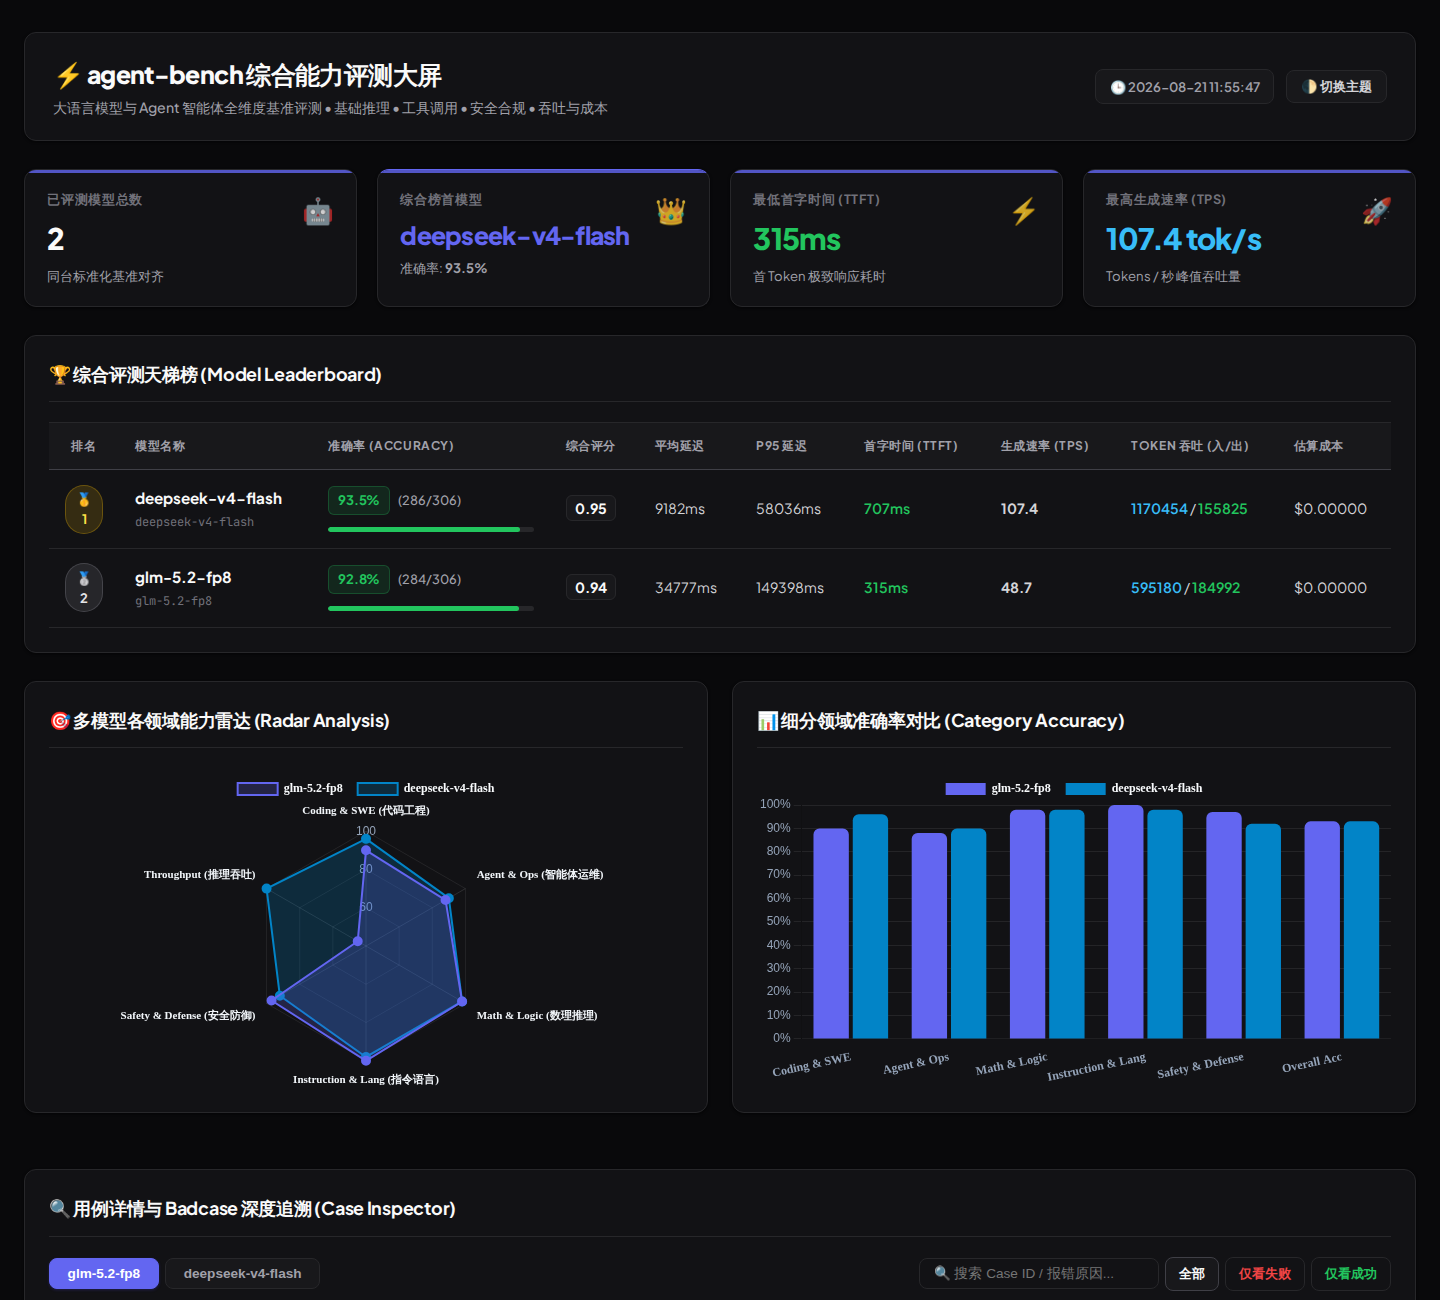
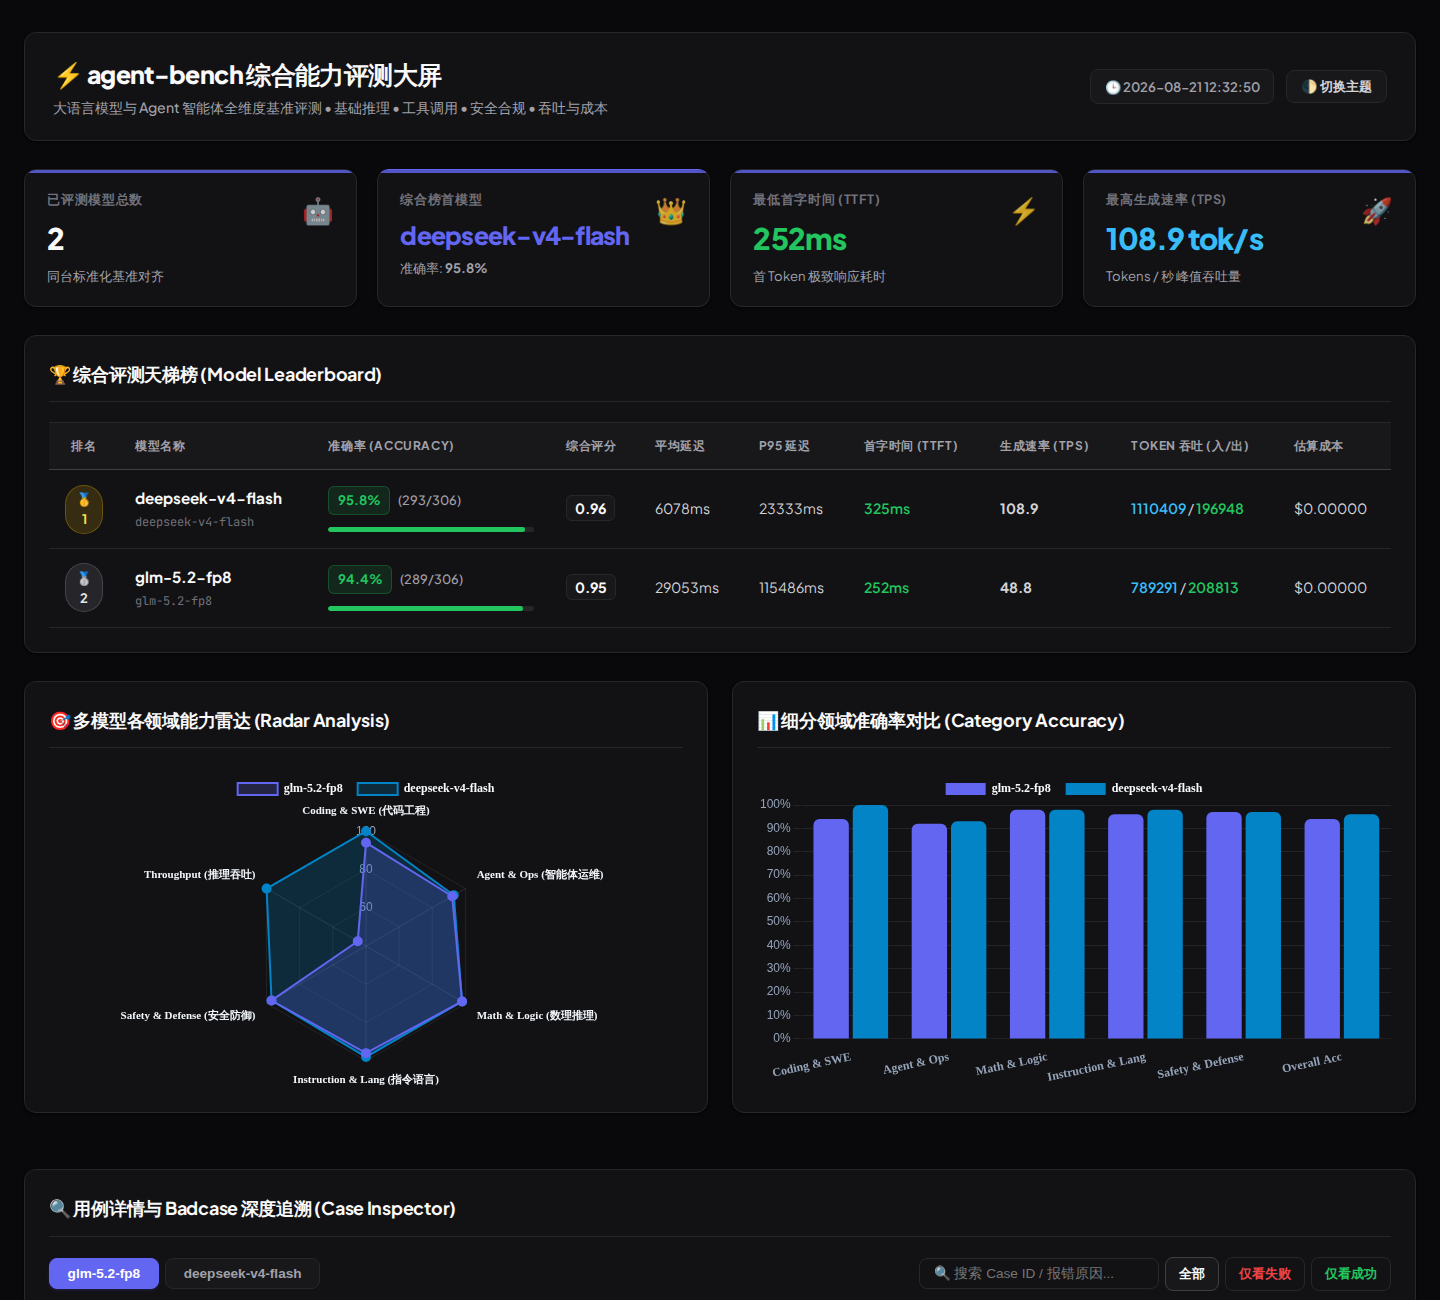
fix(eval): add robust DSML/GLM tool call fallback parser & workspace system prompt to eliminate false verification failures

diff --git a/crates/eval-core/src/model/types.rs b/crates/eval-core/src/model/types.rs
@@ -247,3 +247,166 @@ pub struct ModelResponse {
     pub finish_reason: Option<String>,       // "stop" | "length" | "tool_calls"
     pub raw_response: Option<serde_json::Value>,
 }
+
+/// Fallback parser that extracts structured tool calls if an open-source model (DeepSeek, GLM, Qwen, etc.)
+/// generates markup/text tool calls instead of native JSON tool_calls in OpenAI API response.
+pub fn extract_fallback_tool_calls(text: &str) -> Option<Vec<ToolCall>> {
+    let mut calls = Vec::new();
+    let mut idx = 0;
+
+    // 1. DeepSeek DSML format: <｜DSML｜invoke name="NAME">...<｜DSML｜parameter name="PARAM">VAL</｜DSML｜parameter>...</｜DSML｜invoke>
+    // Handles both full-width ｜ and standard |
+    let dsml_invoke_re = regex::Regex::new(r"(?s)<[｜|]DSML[｜|]invoke\s+name=[\x22']([^'\x22]+)[\x22']\s*>(.*?)</[｜|]DSML[｜|]invoke>").ok();
+    let dsml_param_re = regex::Regex::new(r"(?s)<[｜|]DSML[｜|]parameter\s+name=[\x22']([^'\x22]+)[\x22'][^>]*>(.*?)</[｜|]DSML[｜|]parameter>").ok();
+
+    if let (Some(inv_re), Some(p_re)) = (dsml_invoke_re.as_ref(), dsml_param_re.as_ref()) {
+        for cap in inv_re.captures_iter(text) {
+            let name = cap.get(1).map(|m| m.as_str().trim()).unwrap_or("");
+            let body = cap.get(2).map(|m| m.as_str()).unwrap_or("");
+            if !name.is_empty() {
+                let mut map = serde_json::Map::new();
+                for pcap in p_re.captures_iter(body) {
+                    let pname = pcap.get(1).map(|m| m.as_str().trim()).unwrap_or("");
+                    let pval = pcap.get(2).map(|m| m.as_str().trim()).unwrap_or("");
+                    if !pname.is_empty() {
+                        map.insert(pname.to_string(), serde_json::Value::String(pval.to_string()));
+                    }
+                }
+                calls.push(ToolCall {
+                    id: format!("call_dsml_{idx}"),
+                    tool_type: "function".to_string(),
+                    function: FunctionCall {
+                        name: name.to_string(),
+                        arguments: serde_json::to_string(&map).unwrap_or_else(|_| "{}".to_string()),
+                    },
+                });
+                idx += 1;
+            }
+        }
+    }
+
+    if !calls.is_empty() {
+        return Some(calls);
+    }
+
+    // 2. GLM format & generic <tool_call>...</tool_call>
+    let tool_call_re = regex::Regex::new(r"(?s)<tool_call>(.*?)</tool_call>").ok();
+    if let Some(tc_re) = tool_call_re.as_ref() {
+        for cap in tc_re.captures_iter(text) {
+            let body = cap.get(1).map(|m| m.as_str().trim()).unwrap_or("");
+            if body.is_empty() {
+                continue;
+            }
+
+            // If body is valid JSON: {"name": "...", "arguments": {...}}
+            if body.starts_with('{') {
+                if let Ok(v) = serde_json::from_str::<serde_json::Value>(body) {
+                    let name = v.get("name").or_else(|| v.get("tool")).and_then(|n| n.as_str()).unwrap_or("");
+                    let args = if let Some(a) = v.get("arguments").or_else(|| v.get("parameters")) {
+                        if a.is_string() {
+                            a.as_str().unwrap().to_string()
+                        } else {
+                            serde_json::to_string(a).unwrap_or_else(|_| "{}".to_string())
+                        }
+                    } else {
+                        "{}".to_string()
+                    };
+
+                    if !name.is_empty() {
+                        calls.push(ToolCall {
+                            id: format!("call_glm_json_{idx}"),
+                            tool_type: "function".to_string(),
+                            function: FunctionCall {
+                                name: name.to_string(),
+                                arguments: args,
+                            },
+                        });
+                        idx += 1;
+                        continue;
+                    }
+                }
+            }
+
+            // GLM custom markup: write_file<arg_value>path</arg_key><arg_value>src/config_loader.py\ncontent</arg_key><arg_value>...
+            let parts: Vec<&str> = body.splitn(2, "<arg_value>").collect();
+            let name = parts[0].trim();
+            if !name.is_empty() && parts.len() > 1 {
+                let rest = parts[1];
+                let segments: Vec<&str> = rest.split("</arg_key><arg_value>").collect();
+                let mut map = serde_json::Map::new();
+                if segments.len() > 1 {
+                    let mut cur_key = segments[0].trim();
+                    for (s_idx, seg) in segments.iter().enumerate().skip(1) {
+                        if s_idx == segments.len() - 1 {
+                            // Last segment: strip trailing </arg_value>
+                            let val = if let Some(stripped) = seg.strip_suffix("</arg_value>") {
+                                stripped.trim()
+                            } else {
+                                seg.trim()
+                            };
+                            map.insert(cur_key.to_string(), serde_json::Value::String(val.to_string()));
+                        } else {
+                            // Intermediate segment: value ending with newline and next_key
+                            if let Some((val, next_key)) = seg.rsplit_once('\n') {
+                                map.insert(cur_key.to_string(), serde_json::Value::String(val.trim().to_string()));
+                                cur_key = next_key.trim();
+                            } else {
+                                map.insert(cur_key.to_string(), serde_json::Value::String(seg.trim().to_string()));
+                            }
+                        }
+                    }
+                }
+
+                calls.push(ToolCall {
+                    id: format!("call_glm_markup_{idx}"),
+                    tool_type: "function".to_string(),
+                    function: FunctionCall {
+                        name: name.to_string(),
+                        arguments: serde_json::to_string(&map).unwrap_or_else(|_| "{}".to_string()),
+                    },
+                });
+                idx += 1;
+            }
+        }
+    }
+
+    if !calls.is_empty() {
+        return Some(calls);
+    }
+
+    None
+}
+
+#[cfg(test)]
+mod tests {
+    use super::*;
+
+    #[test]
+    fn test_extract_dsml_tool_calls() {
+        let text = r#"Let me check the config:
+<｜DSML｜tool_calls>
+<｜DSML｜invoke name="read_file">
+<｜DSML｜parameter name="path" string="true">app/config.yaml</｜DSML｜parameter>
+</｜DSML｜invoke>
+</｜DSML｜tool_calls>"#;
+
+        let calls = extract_fallback_tool_calls(text).expect("Should extract DSML tool calls");
+        assert_eq!(calls.len(), 1);
+        assert_eq!(calls[0].function.name, "read_file");
+        assert!(calls[0].function.arguments.contains("app/config.yaml"));
+    }
+
+    #[test]
+    fn test_extract_glm_tool_calls() {
+        let text = r#"Refactoring config:
+<tool_call>write_file<arg_value>path</arg_key><arg_value>src/config_loader.py
+content</arg_key><arg_value>import json
+def load_config(): pass</arg_value></tool_call>"#;
+
+        let calls = extract_fallback_tool_calls(text).expect("Should extract GLM tool calls");
+        assert_eq!(calls.len(), 1);
+        assert_eq!(calls[0].function.name, "write_file");
+        assert!(calls[0].function.arguments.contains("src/config_loader.py"));
+        assert!(calls[0].function.arguments.contains("load_config"));
+    }
+}

diff --git a/crates/eval-core/src/model/openai.rs b/crates/eval-core/src/model/openai.rs
@@ -1,6 +1,7 @@
 use super::client::ModelClient;
 use super::types::{
-    ChatMessage, FunctionCall, ModelConfig, ModelResponse, TokenUsage, ToolCall, ToolDefinition,
+    extract_fallback_tool_calls, ChatMessage, FunctionCall, ModelConfig, ModelResponse, TokenUsage,
+    ToolCall, ToolDefinition,
 };
 use anyhow::{anyhow, Context, Result};
 use async_trait::async_trait;
@@ -382,6 +383,12 @@ impl OpenAICompatibleClient {
             full_text = reasoning_text.clone();
         }
 
+        let fallback_tools = if !final_tool_calls.is_empty() {
+            Some(final_tool_calls)
+        } else {
+            extract_fallback_tool_calls(&full_text)
+        };
+
         Ok(ModelResponse {
             text: full_text,
             reasoning_content: if reasoning_text.is_empty() {
@@ -389,11 +396,7 @@ impl OpenAICompatibleClient {
             } else {
                 Some(reasoning_text)
             },
-            tool_calls: if final_tool_calls.is_empty() {
-                None
-            } else {
-                Some(final_tool_calls)
-            },
+            tool_calls: fallback_tools,
             usage: TokenUsage {
                 prompt_tokens,
                 completion_tokens,
@@ -468,12 +471,18 @@ impl OpenAICompatibleClient {
             0.0
         };
 
+        let fallback_tools = if !final_tool_calls.is_empty() {
+            Some(final_tool_calls)
+        } else {
+            extract_fallback_tool_calls(&text)
+        };
+
         let estimated_cost = self.calculate_cost(prompt_tokens, completion_tokens);
 
         Ok(ModelResponse {
             text,
             reasoning_content,
-            tool_calls: if final_tool_calls.is_empty() { None } else { Some(final_tool_calls) },
+            tool_calls: fallback_tools,
             usage: TokenUsage {
                 prompt_tokens,
                 completion_tokens,

diff --git a/crates/eval-agent/src/runner.rs b/crates/eval-agent/src/runner.rs
@@ -1,5 +1,5 @@
 use crate::env::SimulatedEnvironment;
-use eval_core::model::{ChatMessage, ModelClient, ToolCall, ToolDefinition};
+use eval_core::model::{extract_fallback_tool_calls, ChatMessage, ModelClient, ToolCall, ToolDefinition};
 use serde::{Deserialize, Serialize};
 use std::time::{Duration, Instant};
 
@@ -75,8 +75,11 @@ impl AgentRunner {
 
             let step_latency = turn_start.elapsed().as_millis() as u64;
 
-            // Check if model decided to call tools
-            if let Some(tool_calls) = response.tool_calls.clone() {
+            // Check if model decided to call tools (either structured API tool_calls or fallback text markup)
+            let tool_calls = response.tool_calls.clone().filter(|tc| !tc.is_empty())
+                .or_else(|| extract_fallback_tool_calls(&response.text));
+
+            if let Some(tool_calls) = tool_calls {
                 if !tool_calls.is_empty() {
                     let mut tool_results = Vec::new();
 

diff --git a/crates/eval-suites/src/orchestrator.rs b/crates/eval-suites/src/orchestrator.rs
@@ -185,9 +185,12 @@ impl BenchmarkOrchestrator {
             let tools = test_case.tools.clone().unwrap_or_else(get_pi_tools);
             let max_turns = test_case.max_turns.unwrap_or(8);
 
+            let default_sys = "You are an expert autonomous AI software engineer and system administrator operating in the root directory of an isolated project workspace. You have access to tools (bash, read_file, write_file, edit_file, grep_search) to inspect the workspace, execute commands, modify files, and verify results. Always use relative paths when accessing files in the workspace.".to_string();
+            let sys_prompt = test_case.system_prompt.as_deref().unwrap_or(&default_sys);
+
             let trajectory = AgentRunner::run(
                 client.as_ref(),
-                test_case.system_prompt.as_deref(),
+                Some(sys_prompt),
                 &test_case.prompt,
                 &tools,
                 &workspace,

diff --git a/crates/eval-core/src/model/mod.rs b/crates/eval-core/src/model/mod.rs
@@ -13,8 +13,8 @@ pub use mock::MockClient;
 pub use openai::OpenAICompatibleClient;
 pub use openai_responses::OpenAIResponsesClient;
 pub use types::{
-    ApiProtocol, ChatMessage, FunctionCall, FunctionDefinition, ModelConfig, ModelResponse,
-    ResponseFormat, Role, TokenUsage, ToolCall, ToolDefinition,
+    extract_fallback_tool_calls, ApiProtocol, ChatMessage, FunctionCall, FunctionDefinition,
+    ModelConfig, ModelResponse, ResponseFormat, Role, TokenUsage, ToolCall, ToolDefinition,
 };
 
 use anyhow::Result;
